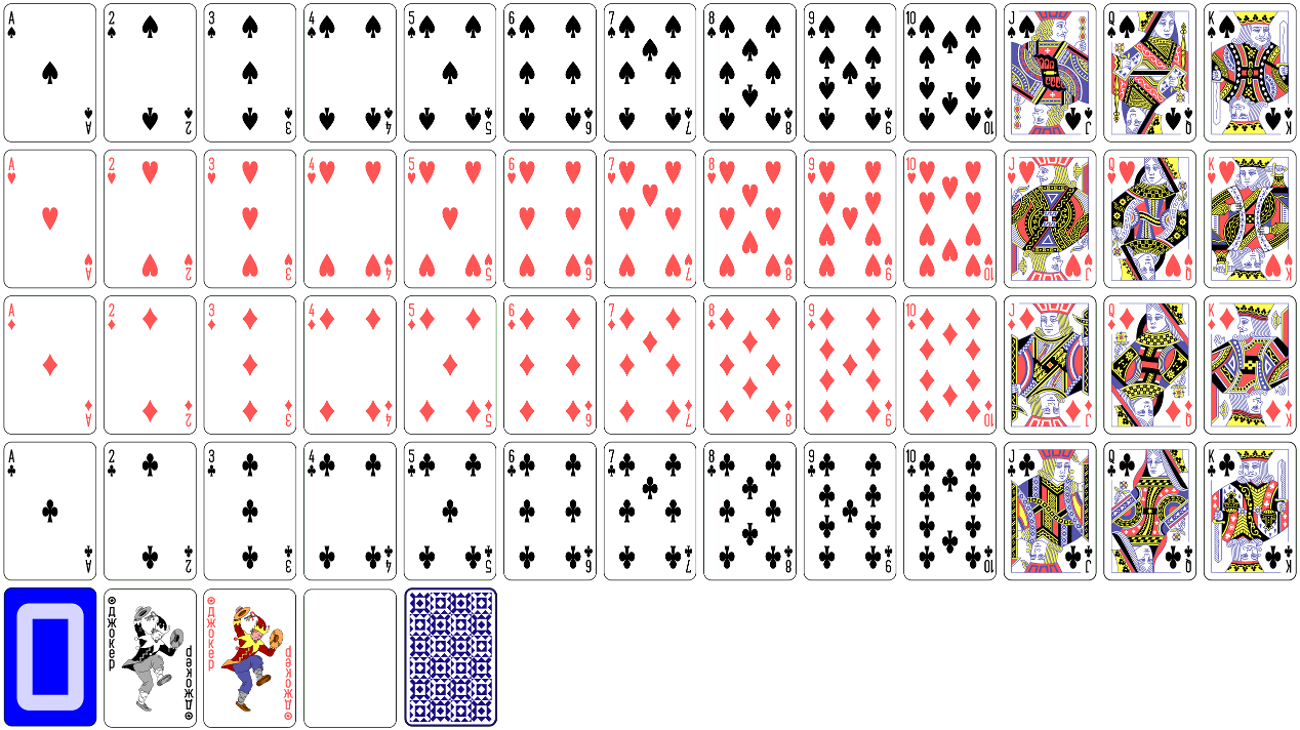
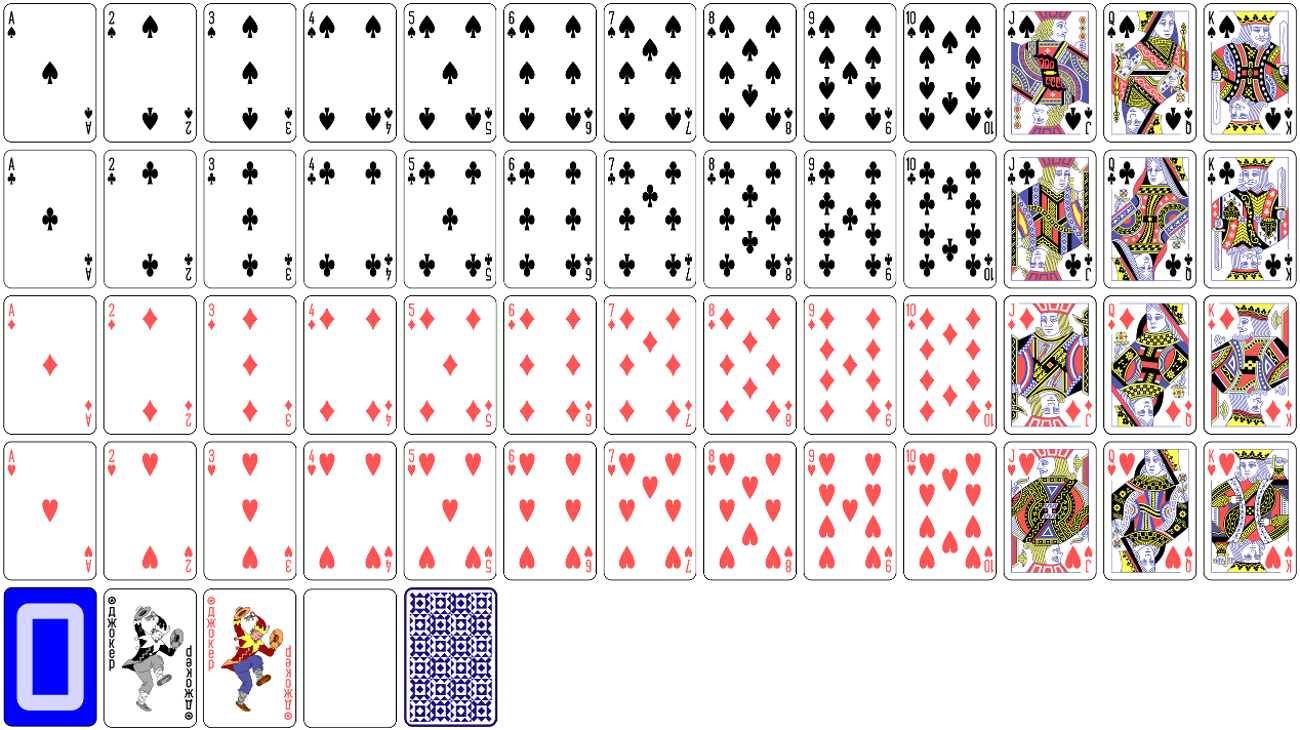
Fix playing card image so if two cards are used it is a match

diff --git a/js/deck/PlayingCardDeck.js b/js/deck/PlayingCardDeck.js
@@ -38,7 +38,7 @@ class PlayingCardDeck extends Deck {
     }
 
     static getSuits() {
-        return [SPADES, HEARTS, DIAMONDS, CLUBS];
+        return [SPADES, CLUBS, DIAMONDS, HEARTS];
     }
 
     static getRanks() {
